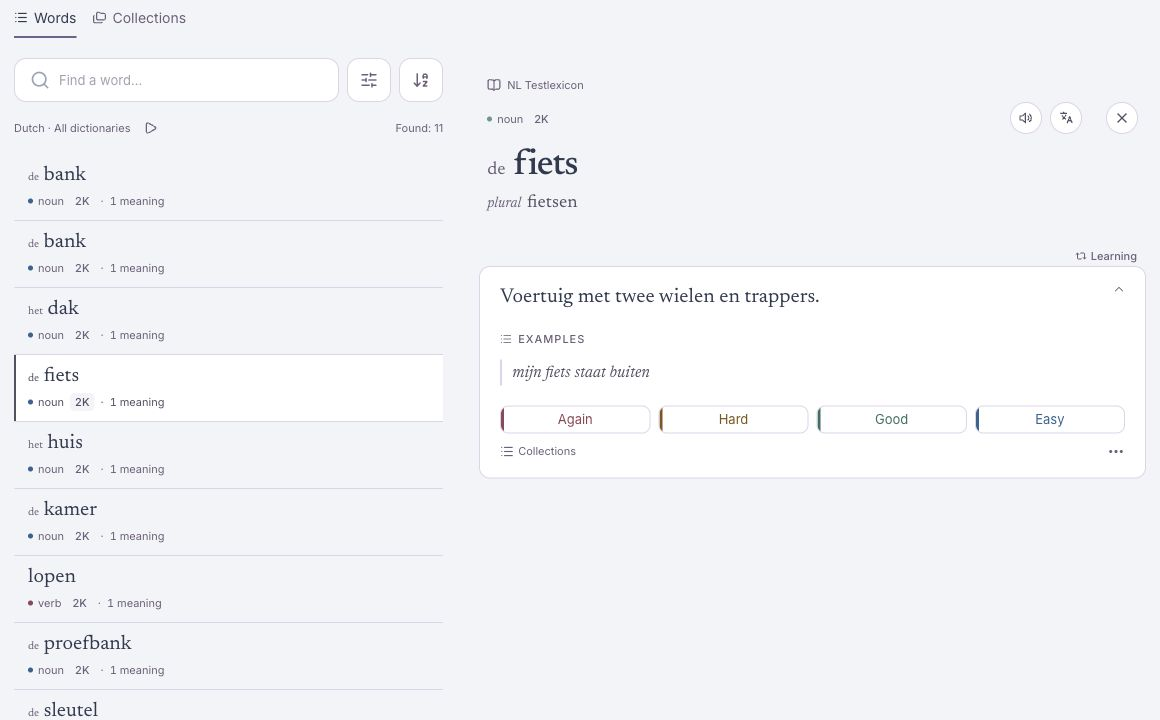
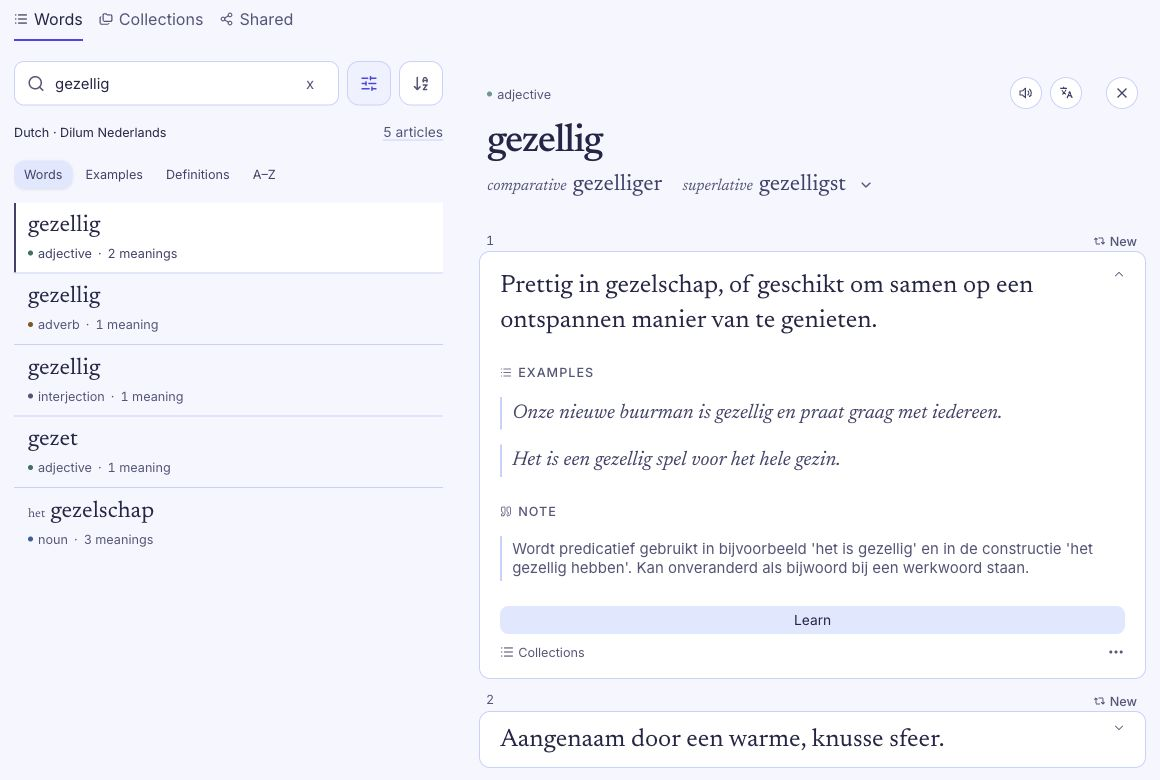
Show a full Dilum Nederlands entry and remove showcase caption

diff --git a/src/styles/2000nl.css b/src/styles/2000nl.css
@@ -111,20 +111,6 @@
   overflow:hidden;
   box-shadow:0 18px 50px #29203720
 }
-.nl-showcase figcaption {
-  position:absolute;
-  bottom:0;
-  left:0;
-  right:0;
-  display:flex;
-  justify-content:space-between;
-  gap:15px;
-  color:var(--muted);
-  font:400 12px/1.7 var(--sans)
-}
-.nl-showcase figcaption span {
-  color:var(--ink)
-}
 .nl-steps {
   display:grid;
   grid-template-columns:repeat(3,1fr);
@@ -270,17 +256,8 @@
   width:66%;
   bottom:50px
 }
-.nl-showcase figcaption {
-  position:static;
-  margin-top:90px;
-  display:block;
-  font-size:11px
-}
-.nl-showcase figcaption span {
-  display:block
-}
 .nl-showcase {
-  padding-bottom:0
+  padding-bottom:90px
 }
 .nl-steps {
   grid-template-columns:1fr;

diff --git a/docs/work/2000nl-product-landing.md b/docs/work/2000nl-product-landing.md
@@ -46,3 +46,21 @@ on that exact implementation. Draft review: https://github.com/vbalashi/dilum-la
 Branch pushed; scoped tree clean after this receipt. Public site unchanged.
 Review locally at http://localhost:4326/2000nl/ (owned Astro preview runtime).
 Protective ownership retained pending review/integration.
+
+## Resume 2026-11-11: screenshot refinement
+
+Existing branch clean and claim rechecked; main's AGENTS.md change preserved.
+User requests a fuller entry from the studio's own Dutch dictionary with synonyms,
+examples and a note; remove the redundant showcase caption. Scope unchanged.
+Use the authenticated production UI read-only to select an existing entry, without
+changing learning state. The UI names the own dictionary Dilum Nederlands.
+
+Refinement outcome: user accepted the full entry without synonyms. The deployed
+own dictionary package contains definitions/examples/notes but no synonym fields;
+no data was invented or modified. Captured gezellig from the read-only production
+Library scoped to Dilum Nederlands: adjective, two meanings, forms, two examples
+and usage note. Replaced only library/card images, alt text and related public
+copy; removed the showcase caption and its obsolete styles, adjusted mobile
+spacing for the taller card. Production build/content check and diff check pass;
+rendered images verified loaded at exact dimensions, caption absent, no horizontal
+overflow in the current narrow viewport. Existing training/builder blocks retained.
